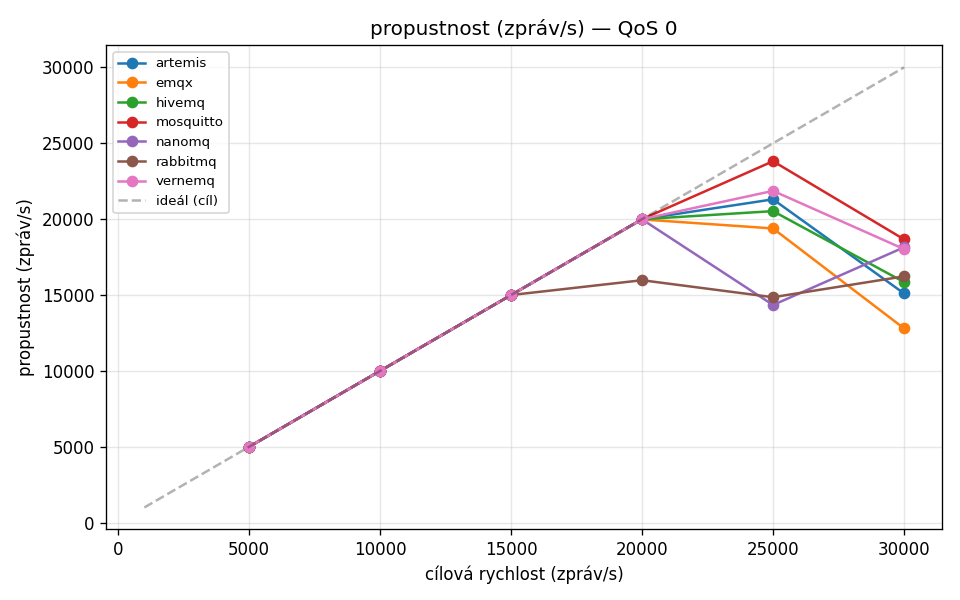
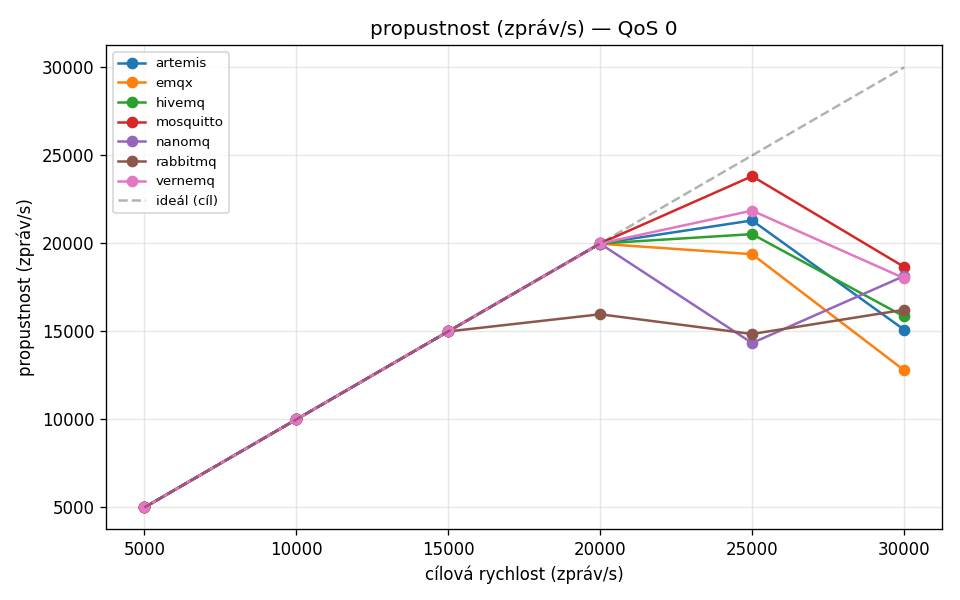
brokerbench: oprava osy X v throughput grafu (ideál jen rozsah daného QoS)
Ideální linie se počítala ze VŠECH rychlostí (vč. QoS0 do 30k), takže
QoS1 graf měl osu X roztaženou na 30k a čáry (data jen do 10k) byly
zmáčknuté vlevo. Opraveno: ideál bere jen rychlosti daného QoS.

diff --git a/benchmarks/brokers/brokerbench/export.py b/benchmarks/brokers/brokerbench/export.py
@@ -113,8 +113,8 @@ def write_charts(rows: list[dict], out_dir: Path, ref_rate: int) -> list[str]:
                 x, y = series(b, qos, key)
                 if x:
                     ax.plot(x, y, marker="o", label=b)
-            if key == "throughput":  # ideální linie x=y
-                allx = sorted({r["target_rate"] for r in rows})
+            if key == "throughput":  # ideální linie x=y (jen rozsah daného QoS)
+                allx = sorted({r["target_rate"] for r in rows if r["qos"] == qos})
                 ax.plot(allx, allx, "k--", alpha=0.3, label="ideál (cíl)")
             ax.set_xlabel("cílová rychlost (zpráv/s)")
             ax.set_ylabel(ylabel)
